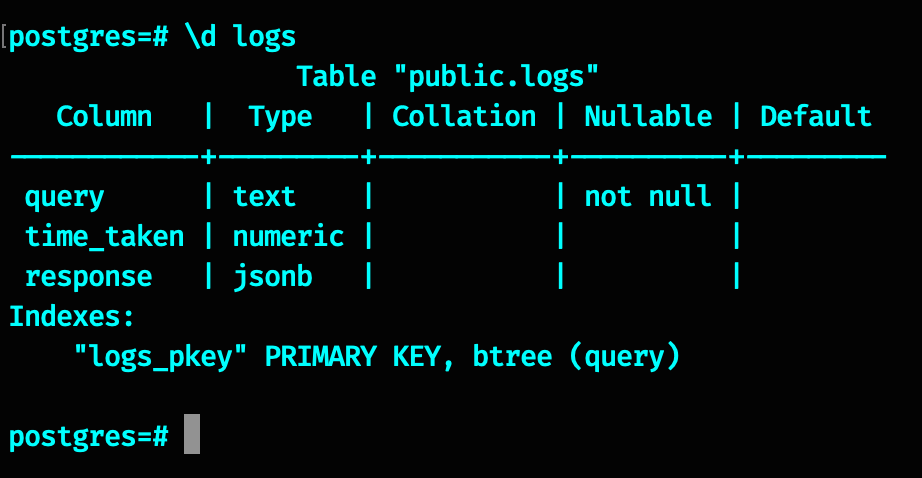
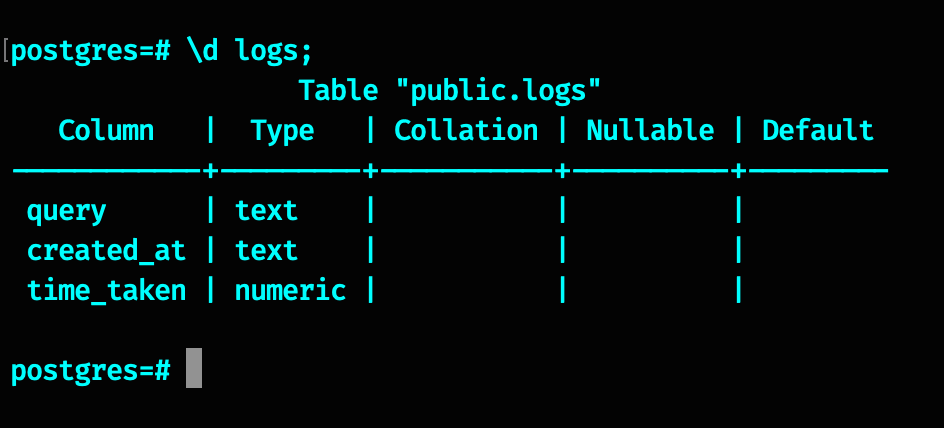
integrated cache with search

diff --git a/scripts/utils.py b/scripts/utils.py
@@ -10,6 +10,18 @@ from configparser import ConfigParser
 import psycopg2
 from elasticsearch import Elasticsearch
 from datetime import datetime
+from psycopg2.extras import Json
+from psycopg2 import extensions
+
+class CustomJSONEncoder(json.JSONEncoder):
+    """
+    This is a custom class that extends the `json.JSONEncoder` class. It overrides the `default()` method
+    to handle datetime objects in a JSON-serializable format.
+    """
+    def default(self, obj):
+        if isinstance(obj, datetime):
+            return obj.isoformat()
+        return super().default(obj)
 
 def getConfig():
     """
@@ -67,19 +79,17 @@ def connNoSQL():
 
     return _client
 
-async def pushLogs(key, result, created_at, response_time):
+async def pushLogs(key, result, response_time):
     """
     This function inserts a new row into a PostgreSQL database table called 'logs' using the provided cursor object.
     The row contains the following values:
     - A JSON-serialized representation of the key (if it is a dictionary), or the key value (if it is not)
-    - The current datetime in the format 'YYYY-MM-DD HH:MM:SS'
     - The response time (in seconds)
     - The response as a JSONB column in the database (as psycopg2.extras.Json)
 
     Parameters:
     - key: the key associated with the response (can be a dictionary or a simple value)
     - result: the response to be logged (any JSON-serializable object)
-    - created_at: the datetime when the response was created (can be None)
     - response_time: the response time in seconds (can be None)
     """
     _connection = connSQL()
@@ -88,18 +98,28 @@ async def pushLogs(key, result, created_at, response_time):
     if isinstance(key, dict):
         key = json.dumps(key)
     
-    created_at = datetime.now().strftime("%Y-%m-%d %H:%M:%S")
+    created_at=datetime.now()
+    created_at=json.dumps(created_at,cls=CustomJSONEncoder)
+
+
+
+    if bool(key):key = extensions.adapt(key).getquoted().decode('utf-8')
+    if bool(key):key = key.replace('"', '').replace("%", "%%")
     
-    _cursor.execute(
-        f"""
+    sql_query=f"""
             INSERT INTO
-                logs (query, created_at, time_taken, response)
+                logs (query, created_at, time_taken)
             VALUES
-                ({key},{created_at},{response_time},{json.dumps(result)})
+                ({key},{Json(created_at)},{response_time})
         """
+    
+    print(sql_query)
+
+    _cursor.execute(
+        sql_query
     )
 
-    _cursor.commit()
+    _connection.commit()
     _cursor.close()
     _connection.close()
 

diff --git a/scripts/cache.py b/scripts/cache.py
@@ -11,16 +11,7 @@ from collections import OrderedDict
 import asyncio
 from datetime import datetime
 import time
-
-class CustomJSONEncoder(json.JSONEncoder):
-    """
-    This is a custom class that extends the `json.JSONEncoder` class. It overrides the `default()` method
-    to handle datetime objects in a JSON-serializable format.
-    """
-    def default(self, obj):
-        if isinstance(obj, datetime):
-            return obj.isoformat()
-        return super().default(obj)
+from scripts.utils import CustomJSONEncoder
 
 class CacheManager:
     def __init__(self, cache_file = "diskCache.json", max_size=1024):
@@ -46,8 +37,8 @@ class CacheManager:
             if not os.path.exists('./data'):
                 os.makedirs('./data')
             
-            if os.path.exists(os.join('./data',self.cache_file)):
-                with open(os.join('./data',self.cache_file), 'r') as f:
+            if os.path.exists(os.path.join('./data',self.cache_file)):
+                with open(os.path.join('./data',self.cache_file), 'r') as f:
                     return OrderedDict(json.load(f))
             else:
                 return OrderedDict()
@@ -60,8 +51,8 @@ class CacheManager:
         Saves the cache to the file on disk.
         """
         try:
-            with open(self.cache_file_path, 'w') as f:
-                json.dump(self.cache, f)
+            with open(os.path.join('./data',self.cache_file), 'w') as f:
+                json.dump(self.cache, f, cls=CustomJSONEncoder)
         except Exception as e:
             print(f'Cache Save Failed as: {e}. Defaulting to empty cache')
     
@@ -155,7 +146,7 @@ class CacheManager:
         """
         self.cache.clear()
     
-    async def close(self, save = True):
+    def close(self, save = True):
         """
         Saves the cache to the JSON file and close it
         """

diff --git a/scripts/relationalDB.py b/scripts/relationalDB.py
@@ -122,10 +122,9 @@ def createPostgresTables(_cursor):
             """
             CREATE TABLE logs
             (
-                query TEXT PRIMARY KEY,
-                created_at TIMESTAMP,
-                time_taken DECIMAL,
-                response TEXT
+                query TEXT,
+                created_at TEXT,
+                time_taken DECIMAL
             )
             """
         )
